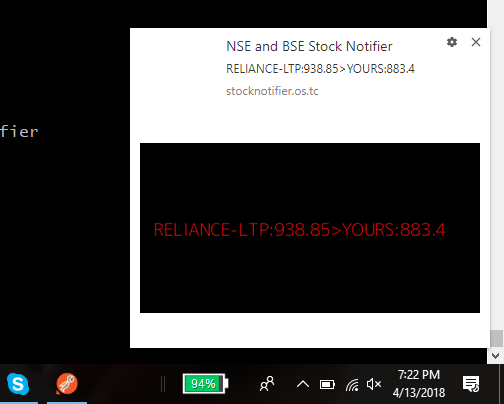
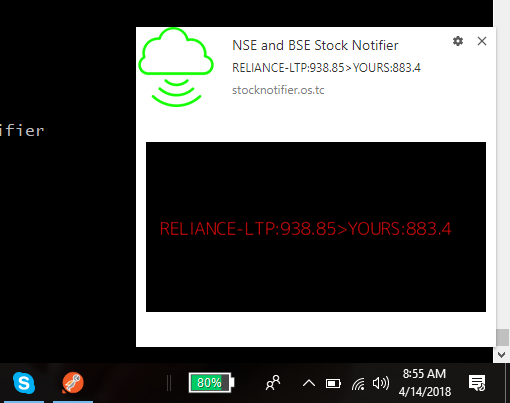
arch diagram added

diff --git a/helpers.js b/helpers.js
@@ -36,8 +36,8 @@ function sendPushNotification(message) {
         },
         "url": "https://kaviyarasu7.github.io/lambda-stock-notifier",
         "chrome_web_image": "https://dummyimage.com/400x200/000/fff&text=" + message,
-        "small_icon":"https://kaviyarasu7.github.io/lambda-stock-notifier/screenshots/cloud256X256.png",
-        "chrome_web_icon":"https://kaviyarasu7.github.io/lambda-stock-notifier/screenshots/cloud256X256.png",
+        "small_icon":"https://kaviyarasu7.github.io/lambda-stock-notifier/screenshots/cloud-256X256.png",
+        "chrome_web_icon":"https://kaviyarasu7.github.io/lambda-stock-notifier/screenshots/cloud-256X256.png",
         "headings": {
             "en": "NSE and BSE Stock Notifier"
         },
